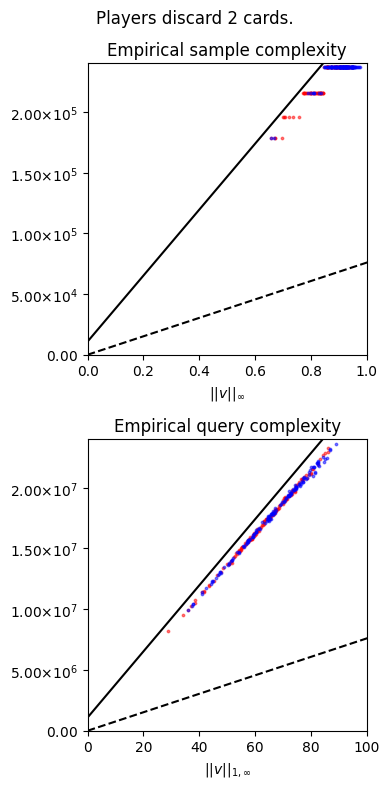
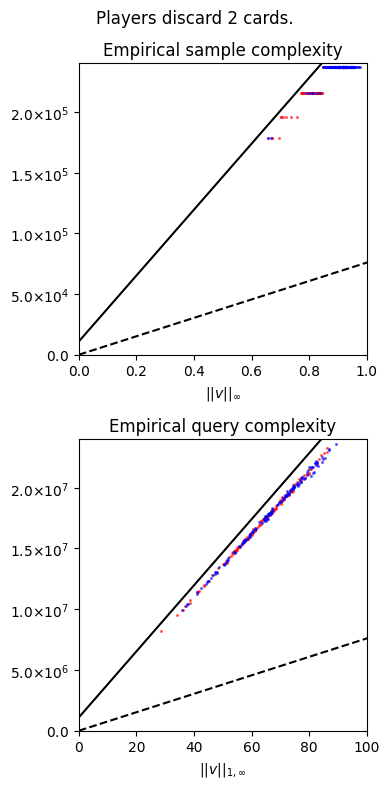
smaller dots, one less significant digit y-axis

diff --git a/plots.py b/plots.py
@@ -119,7 +119,7 @@ def plot_empirical_qtts(
     ax1.set_title("Empirical sample complexity")
     ax1.set_xlim(0, 1)
     ax1.set_ylim(0)
-    ax1.yaxis.set_major_formatter(MathTextSciFormatter("%1.2e"))
+    ax1.yaxis.set_major_formatter(MathTextSciFormatter("%1.1e"))
     ax1.set_xlabel(r"$||v||_{\infty}$")
 
     # Scatter plot for Empirical simulation complexity
@@ -136,7 +136,7 @@ def plot_empirical_qtts(
     ax2.set_title("Empirical query complexity")
     ax2.set_xlim(0, 100 if num_discard_cards == 2 else 25)
     ax2.set_ylim(0)
-    ax2.yaxis.set_major_formatter(MathTextSciFormatter("%1.2e"))
+    ax2.yaxis.set_major_formatter(MathTextSciFormatter("%1.1e"))
 
     ax2.set_xlabel(r"$||v||_{1,\infty}$")
 
@@ -221,7 +221,7 @@ if __name__ == "__main__":
         ax1=exp_ax1,
         ax2=exp_ax2,
         marker_shape=".",
-        markersize=3.5,
+        markersize=2.5,
         dot_transparency=0.5,
         colors={"emp_sample_complexity": "red", "emp_simulation_complexity": "red"},
     )
@@ -234,7 +234,7 @@ if __name__ == "__main__":
         ax1=exp_ax1,
         ax2=exp_ax2,
         marker_shape=".",
-        markersize=3.5,
+        markersize=2.5,
         dot_transparency=0.5,
         colors={"emp_sample_complexity": "blue", "emp_simulation_complexity": "blue"},
     )
